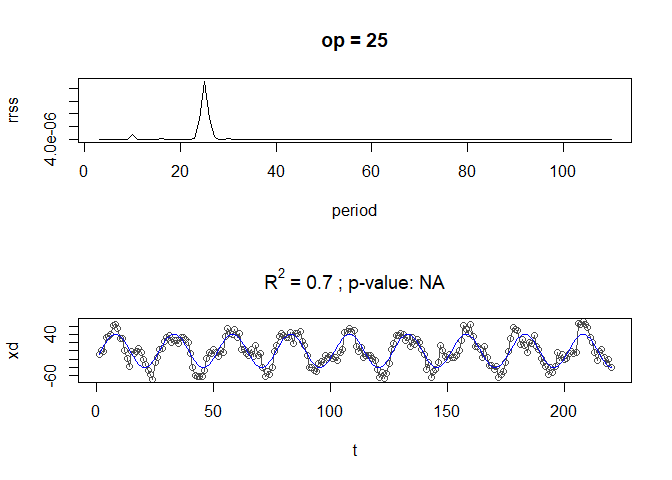
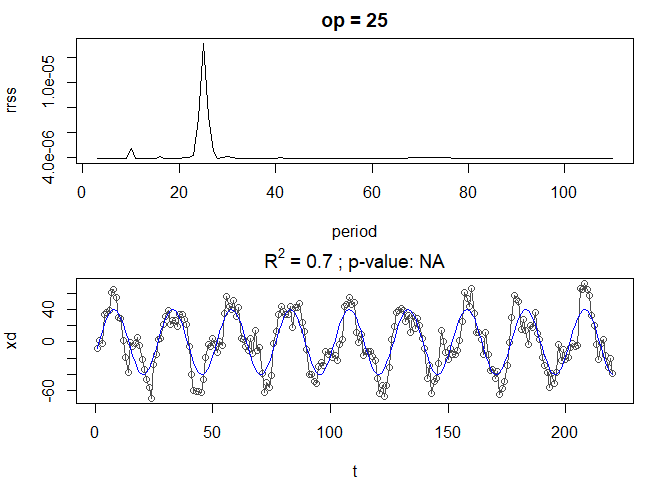
doc modified according to change in plots argument

diff --git a/README.md b/README.md
@@ -20,12 +20,12 @@ install_github("hvillalo/periods") #instalación desde github
 
 ### Serie simulada
 
-El paquete incluye una serie de tiempo simulada (n = 220) media = 0, sin
-tendencia lineal y cuatro componentes armónicos definidos por los
-parámetros: periodos = 25, 10, 16, 73; amplitudes = 40, 20, 10, 5; fases
-= 2, 5, 1, 0;. Adicionalmente se añadió un 10 % de ruido aleatorio. Una
-vez cargado el paquete, la serie se puede cargar en memoria con la
-función `data()`.
+El paquete incluye una serie de tiempo simulada (n = 220) con media = 0,
+sin tendencia lineal y cuatro componentes armónicos definidos por los
+parámetros siguientes: periodos = 25, 10, 16, 73; amplitudes = 40, 20,
+10, 5; y fases = 2, 5, 1, 0. Adicionalmente la serie contiene un 10 % de
+ruido aleatorio. Una vez que el paquete ha sido activado, la serie se
+puede cargar en memoria con la función `data()`.
 
 ``` r
 library(periods)
@@ -43,7 +43,7 @@ plot(sim, type = "l")
 
 El primer paso del análisis consiste en buscar los periodos dominantes
 en la serie de tiempo. De esto se encarga la función `cyclicDescent()`,
-a la que la basta con que se especifique el vector de la serie de tiempo
+a la que le basta con que se especifique el vector de la serie de tiempo
 a procesar.
 
 ``` r
@@ -83,11 +83,15 @@ que este último se descarta.
 
 La función `cyclicDescent()` tiene muchos argumentos más, cuyo uso se
 puede consultar en la ayuda del paquete (`?cyclicDescent`) o en la
-publicación mencionada (ver carpeta `doc`). Como ejemplo, se puede
-invocar solicitando los gráficos de cada modelo sucesivo encontrado:
+publicación mencionada (ver carpeta `doc`), aunque es importante
+mencionar que **existen ligeras diferencias entre las implementaciones
+en Matlab y en R**.
+
+Un ejemplo de un argumento interesante es `plots = TRUE`, el cual
+produce los gráficos de cada modelo sucesivo encontrado:
 
 ``` r
-cyclicDescent(sim, plots = "all")
+cyclicDescent(sim, plots = TRUE)
 ```
 
 ![](README_files/figure-commonmark/unnamed-chunk-5-1.png)
